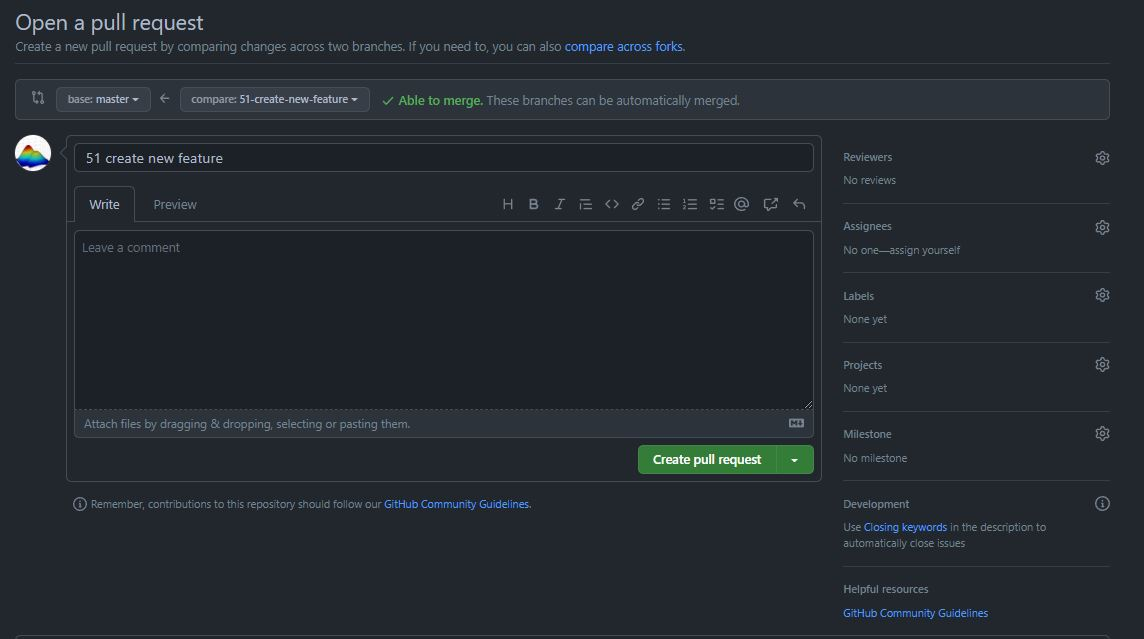
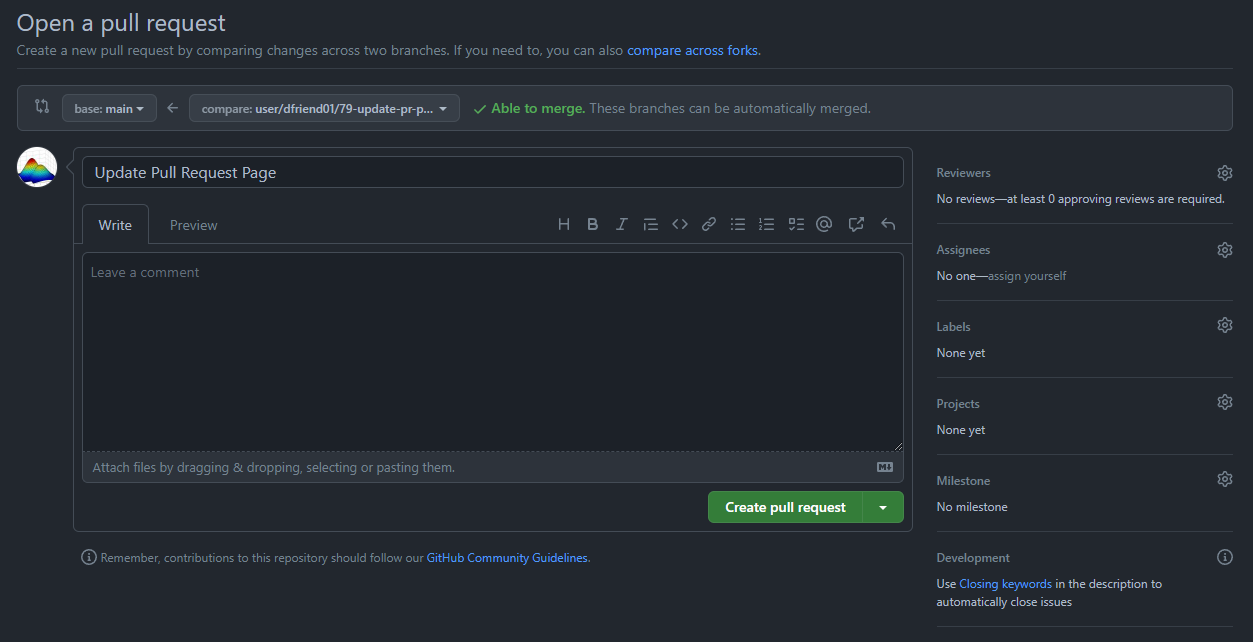
Update Pull Request Page (#87)
* Updated branches page to reflect new standards

* Updated images in Pull Request page to reflect new standards

diff --git a/docs/reference/github/workflow/branches.md b/docs/reference/github/workflow/branches.md
@@ -33,13 +33,13 @@ When working on a new issue, you will want to create a branch to work on it. We 
 naming convention:
 
 ```
-<github_username>/<issue_number>-<issue_description>
+user/<github_username>/<issue_number>-<issue_description>
 ```
 
 !!! example
 
     If Jill (GitHub Username: jill99) is going to take on an issue titled "Fix bug on pathfinding software"
-    and the issue number is 39, then the branch named can be named something like `jill99/39-fix-pathfinding-bug`.
+    and the issue number is 39, then the branch named can be named something like `user/jill99/39-fix-pathfinding-bug`.
 
 If the branch that you are creating is not tied to an issue, then you **do not** need to put an issue number.
 A descriptive title will suffice.
